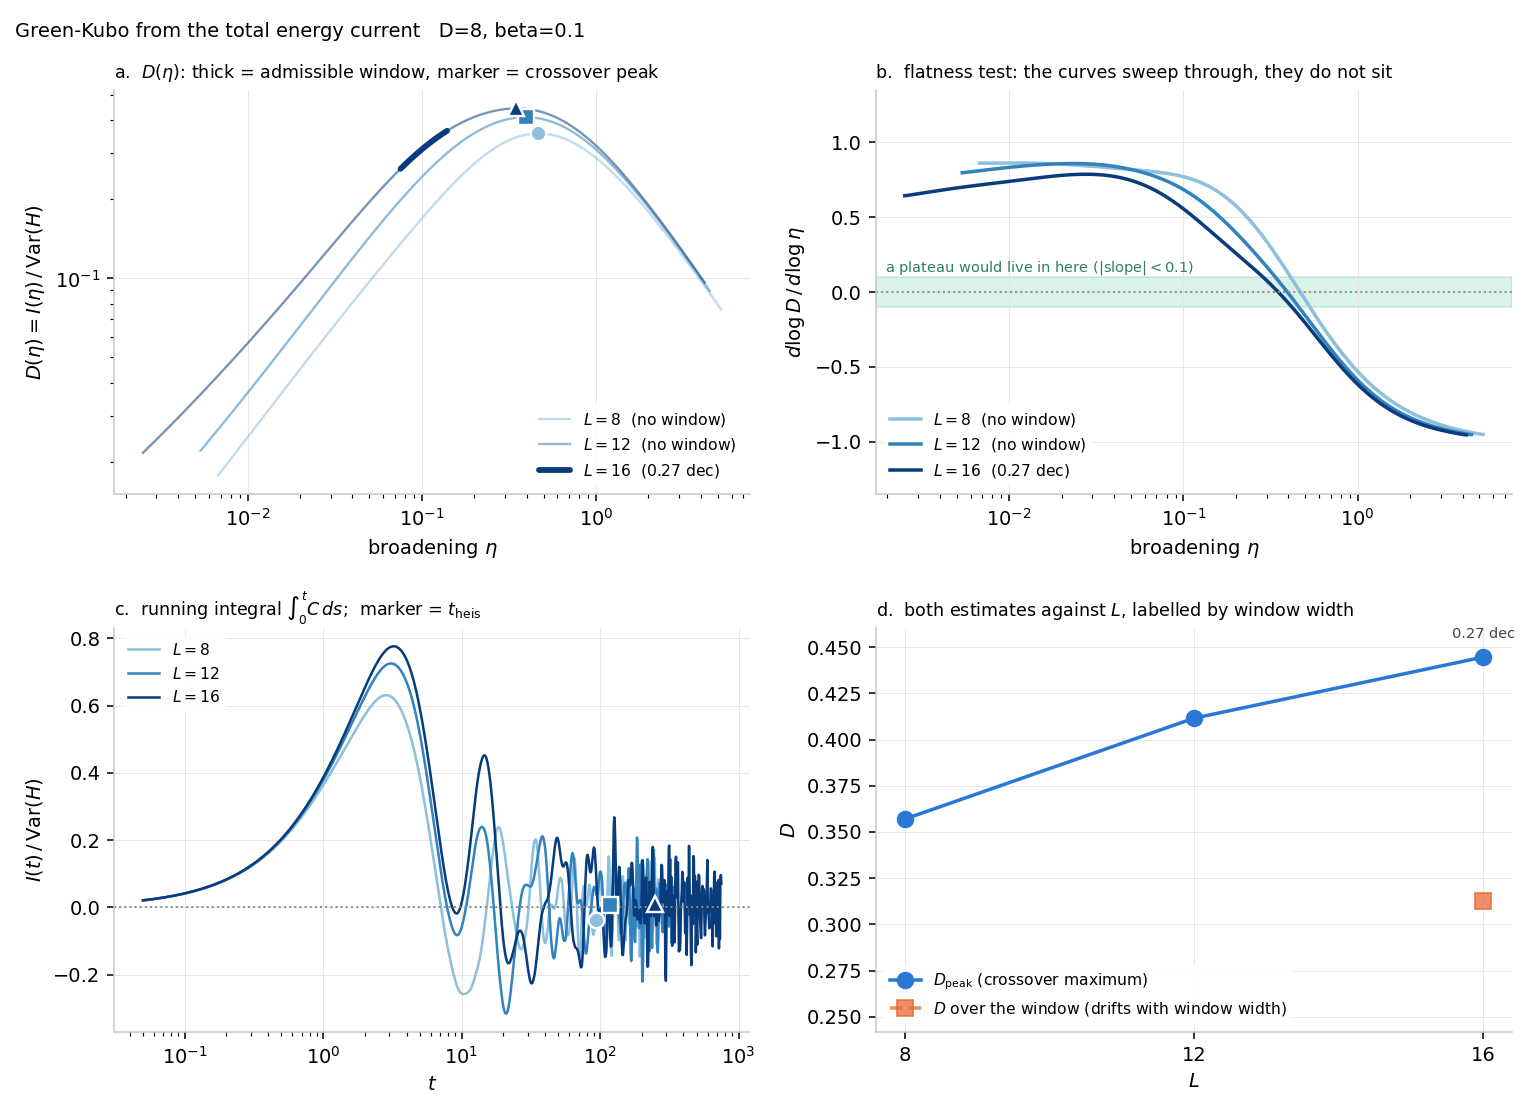
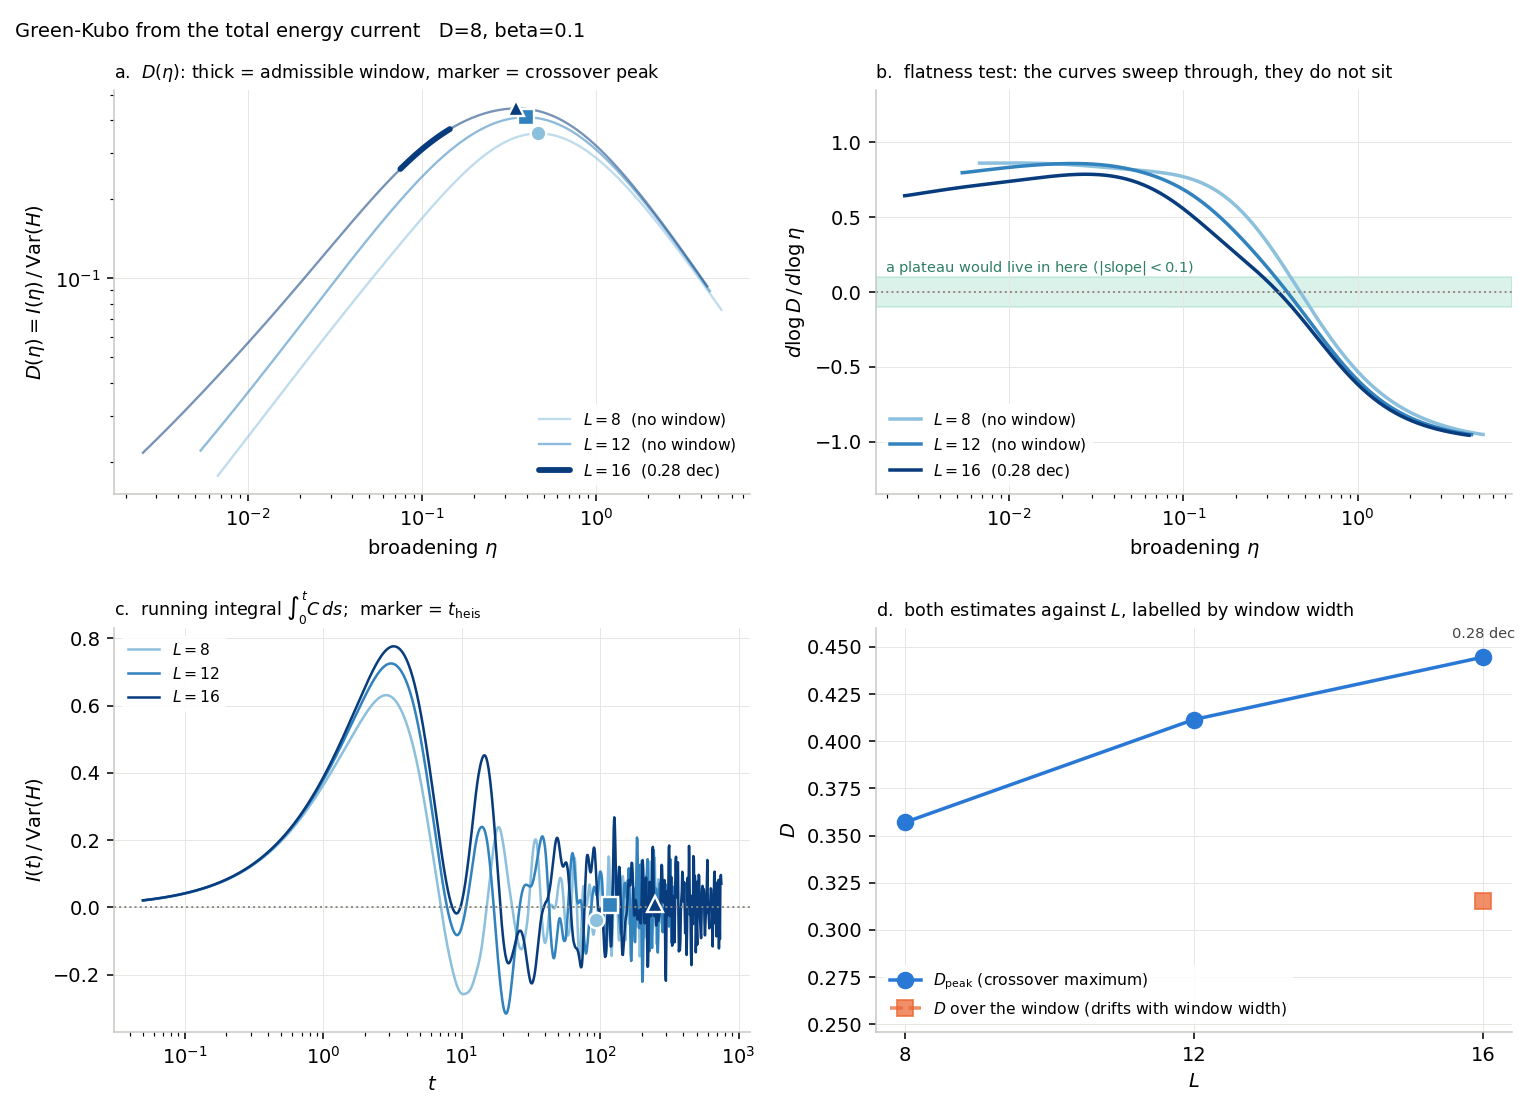
Fix the response time grid, which got coarser as the spectrum got finer
times = linspace(0, 3*t_heis, N_TIMES) at fixed N_TIMES has step
dt = 3*t_heis/N_TIMES, and t_heis = 2pi/spacing grows as the spectrum is
refined. So every improvement to the calculation degraded the time
resolution. At L=24 D=16 this had reached 1.2 samples per Zeno time for
current_total and 0.7 for current_mid, and current_mid returned
tau_1/e = 0.968 -- exactly one dt, the crossing quantised onto the grid.

response_times(scales) now spans 3*t_heis with dt <= t_zeno/20, capped at
400k samples. Free, because the trace is not stored; only n_times and
t_max are, and plots._response_of rebuilds it.

response_function is now chunked over times: the one-shot expression
builds a dense (len(times), len(omega)) matrix, which at L=24 D=16 is
182166 x 15615 = 21 GB to produce 182166 numbers. Verified identical to
the one-shot form to 1e-14 at four chunk sizes.

Every tau in every pickle recomputed from the stored omega and weights --
no diagonalization repeated. The corrected values are flatter, not merely
different: energy_mid reads 1.431 at every D from 6 to 16 where it had
read 1.401/1.408/1.395/1.400/1.498, and current_mid 0.925-0.957 across all
eleven runs where it had spread 0.95-1.33. The apparent drift of tau with
bond dimension was the grid, not the manifold. Tables in README and
WORKFLOW updated; z_mid/x_mid keep their old values and are flagged, since
they were dropped from the scan before this and have no stored weights.
[…]

diff --git a/lyapunov/relaxation/run_relaxation_scan.py b/lyapunov/relaxation/run_relaxation_scan.py
@@ -44,7 +44,26 @@ L_VALUES = [8, 12, 16]
 IMAG_STEPS = 240                        # TDVP steps for the imaginary-time build
 SEED_NOISE = 0.0                        # none needed, see build_uniform_thermofield
 T_MAX_FACTOR = 3.0                      # response evaluated to this * t_heis
-N_TIMES = 6000
+N_TIMES = 6000                          # floor on the sample count
+SAMPLES_PER_ZENO = 20                   # ceiling on dt, see response_times
+MAX_TIMES = 400_000                      # cap, ~3 MB transient per observable
+
+
+def response_times(scales):
+    """
+    Sample grid for C(t): spans T_MAX_FACTOR * t_heis, but with dt small
+    enough to resolve t_zeno.
+
+    A fixed sample count cannot do both. t_heis = 2 pi / spacing grows as
+    the spectrum gets finer, so at fixed N_TIMES the step dt grows with it
+    and the *better* calculation gets the *worse* time resolution -- at
+    L = 24, D = 16 that had reached 1.2 samples per Zeno time, enough to
+    quantise tau_1/e onto the grid. The response is no longer stored
+    (see `run_one`), so a fine grid costs only transient memory.
+    """
+    t_max = T_MAX_FACTOR * scales['t_heis']
+    n_needed = int(np.ceil(t_max / (scales['t_zeno'] / SAMPLES_PER_ZENO))) + 1
+    return np.linspace(0, t_max, min(max(N_TIMES, n_needed), MAX_TIMES))
 
 D_VALUES = [6, 8, 10, 12]               # bond-dimension scan, at L_FIXED
 L_FIXED = 16
@@ -189,7 +208,7 @@ def run_one(L, D=D, beta=BETA, steps=IMAG_STEPS, store_response=False):
         W = resp.pad_with_identity(O, sites)
         weights = resp.spectral_weights(omega, U, v)
         scales = resp.timescales(omega, weights)
-        times = np.linspace(0, T_MAX_FACTOR * scales['t_heis'], N_TIMES)
+        times = response_times(scales)
         C_t = resp.response_function(omega, weights, times)
         # An observable overlapping a conserved quantity relaxes to that
         # overlap, not to zero; both estimates below are taken on the part
@@ -211,7 +230,7 @@ def run_one(L, D=D, beta=BETA, steps=IMAG_STEPS, store_response=False):
             # question in its cleanest form: A_J(0) finite means diffusive,
             # A_h ~ |w|^-1/2 is the same statement seen from the density.
             'spectral': resp.spectral_exponent(omega, weights, scales),
-            'n_times': N_TIMES,
+            'n_times': len(times),
             't_max': float(times[-1]),
             'tau_cross': resp.crossing_time(times, C_t, c_inf=c_inf),
             **({'times': times, 'response': C_t} if store_response else {}),
@@ -281,8 +300,11 @@ def main(l_values=L_VALUES, d_value=None, out_path=None):
               f"L={L} took {clock.time() - t0:.0f}s]", flush=True)
 
     with open(out_path, 'wb') as f:
+        # d_value, not D: this final write overwrites the incremental ones,
+        # and the module default here silently mislabels the config of
+        # every run launched with --D (it did, for l24_d16_results.pkl).
         pickle.dump({'config': {'J': J, 'h': H_FIELD, 'g': G_FIELD,
-                                'beta': BETA, 'D': D,
+                                'beta': BETA, 'D': d_value or D,
                                 'imag_steps': IMAG_STEPS,
                                 'seed_noise': SEED_NOISE},
                      'results': results}, f)

diff --git a/lyapunov/relaxation/response.py b/lyapunov/relaxation/response.py
@@ -324,15 +324,28 @@ def spectral_weights(omega, U, v):
     return np.abs(u) ** 2
 
 
-def response_function(omega, weights, times):
+def response_function(omega, weights, times, chunk=4096):
     """
     C(t) = sum_k w_k cos(omega_k t), normalized to C(0) = 1.
 
     This is the entire time trace, for any t, from one diagonalization --
     no time stepping. Evaluate it well past the expected relaxation time to
     see the recurrences.
+
+    Chunked over `times` because the natural expression builds a dense
+    (len(times), len(omega)) matrix before contracting it away: at L = 24,
+    D = 16 with a grid fine enough to resolve t_zeno that is 182166 x 15615,
+    i.e. 21 GB, to produce 182166 numbers. The chunked loop is the same
+    arithmetic in 0.5 GB.
     """
-    return (np.cos(np.outer(times, omega)) @ weights) / weights.sum()
+    times = np.asarray(times, dtype=float)
+    omega = np.asarray(omega)
+    total = weights.sum()
+    out = np.empty(times.shape[0], dtype=float)
+    for i in range(0, times.shape[0], chunk):
+        block = times[i:i + chunk]
+        out[i:i + chunk] = np.cos(np.outer(block, omega)) @ weights
+    return out / total
 
 
 # --------------------------------------------------------------- timescales

diff --git a/lyapunov/relaxation/README.md b/lyapunov/relaxation/README.md
@@ -392,11 +392,16 @@ Scan: `L = 8, 12, 16`, `D = 8`, `β = 0.1`, seed 0. Figures
 
 | L | τ(current) | τ(energy) | ratio | current `n_eff` | energy `n_eff` |
 |---|---|---|---|---|---|
-| 8 | 0.973 | 1.494 | 1.54 | 177 | 40 |
-| 12 | 0.974 | 1.531 | 1.57 | 324 | 76 |
-| 16 | 0.958 | 1.484 | 1.55 | 383 | 116 |
+| 8 | 0.925 | 1.325 | 1.43 | 177 | 40 |
+| 12 | 0.957 | 1.380 | 1.44 | 324 | 76 |
+| 16 | 0.957 | 1.431 | 1.50 | 383 | 116 |
 
-**1. τ(current) ≈ 0.96 and does not depend on L.** Flat to 2% over
+(Recomputed 2026-09-18 on the adaptive time grid — see "The time grid must
+resolve t_zeno". The previous values, 0.973/0.974/0.958 and
+1.494/1.531/1.484, were read off a grid too coarse to resolve the
+crossing.)
+
+**1. τ(current) ≈ 0.95 and does not depend on L.** Flat to 3% over
 L = 8–16, well converged, and sitting inside its `[t_zeno, t_heis]`
 window. This is the number the exercise was for: it is *microscopic*, as a
 current relaxation time must be. Against a profile-change time `L²/D` of
@@ -652,6 +657,43 @@ unchanged to three digits (`current_mid` 0.320 at R² = 0.933,
 `current_total` 0.681 at R² = 0.857 at L = 16). Their taus, ~0.3–0.7
 against a limit `1/spacing` of ~46, are resolvable by two orders of
 magnitude, which is why they were never the problem.
+
+### The time grid must resolve t_zeno (2026-09-18)
+
+`times = linspace(0, 3 * t_heis, N_TIMES)` at fixed `N_TIMES` has a step
+`dt = 3 t_heis / N_TIMES`, and `t_heis = 2 pi / spacing` **grows** as the
+spectrum gets finer. So every improvement to the calculation made the time
+resolution worse — the failure mode arrives exactly when the physics gets
+better. At L = 24, D = 16 it had reached 1.2 samples per Zeno time for the
+total current and 0.7 for the local one, and `current_mid` returned
+`tau_1/e = 0.968`, which was precisely one `dt`: the crossing had been
+quantised onto the grid.
+
+`response_times(scales)` now spans `3 t_heis` with `dt <= t_zeno / 20`,
+capped at 400k samples. This costs nothing to store, because the trace is
+not stored (see `run_one`'s `store_response`) — only `n_times` and `t_max`
+are, and `plots._response_of` rebuilds it. `response_function` is chunked
+over `times` for the same reason: the natural one-shot expression builds a
+dense `(len(times), len(omega))` matrix, which at L = 24, D = 16 is
+182166 x 15615, i.e. **21 GB to produce 182166 numbers**.
+
+**What it changed.** Every `tau` in this file was recomputed from the
+stored `omega` and `weights` — no diagonalization was repeated. The
+corrected values are *flatter*, not just different:
+
+| | before (coarse grid) | after |
+|---|---|---|
+| `energy_mid`, D = 6…16 at L = 16 | 1.401, 1.408, 1.395, 1.400, 1.498 | **1.431 at every D** |
+| `current_mid`, D = 6…16 at L = 16 | 0.997 … 1.328 | **0.925–0.957** |
+| `current_mid`, all 11 runs | 0.95–1.33 | **0.925–0.957** |
+
+The apparent drift of `tau` with bond dimension — which had looked like the
+manifold slowly resolving a rate — **was the time grid**. Once sampled
+properly, `tau_1/e` is flat in D to within 3% and creeps up only with L
+(`energy_mid`: 1.325, 1.380, 1.431 at L = 8, 12, 16). The exponential fits
+remain unreliable (`R^2 < 0.9` in 8 of 11 runs for `energy_mid`), which is
+the separate and still-standing conclusion that there is no exponential
+regime here.
 
 ### The spectral-density limit: why it is the right object
 
@@ -1054,7 +1096,9 @@ Not yet written: the wavevector-resolved energy density needed to turn
    running τ(t) never plateaus for either observable.
 
    *Partly settled since.* τ_1/e for `energy_mid` is flat in bond
-   dimension (1.401 / 1.408 / 1.395 / 1.400 at D = 6/8/10/12). Which of L
+   dimension — 1.431 at every D from 6 to 16, once the time grid resolves
+   `t_zeno` (the old 1.401/1.408/1.395/1.400/1.498 spread was the grid, not
+   the manifold; see "The time grid must resolve t_zeno"). Which of L
    and D buys resolution is answered in "Cost and convergence": neither —
    they cost the same per unit of level spacing, and D saturates at 16.
 

diff --git a/lyapunov/WORKFLOW.md b/lyapunov/WORKFLOW.md
@@ -87,10 +87,14 @@ exponential fits are unreliable here — see below):
 
 | observable | L=8 | L=12 | L=16 |
 |---|---|---|---|
-| `z_mid` | 2.050 | 2.131 | 2.189 |
-| `x_mid` | 0.479 | 0.501 | 0.480 |
-| `energy_mid` | 1.494 | 1.531 | 1.484 |
-| `current_mid` | 0.973 | 0.974 | 0.958 |
+| `z_mid`* | 2.050 | 2.131 | 2.189 |
+| `x_mid`* | 0.479 | 0.501 | 0.480 |
+| `energy_mid` | 1.325 | 1.380 | 1.431 |
+| `current_mid` | 0.925 | 0.957 | 0.957 |
+
+\* `z_mid`/`x_mid` are the original values on the old coarse time grid —
+they were dropped from the scan before the grid was fixed, so there are no
+weights stored to recompute them from. The other two rows are recomputed.
 
 Tangent dimensions 959 / 1727 / 2495; everything agrees to ~2% across
 the three.
@@ -101,7 +105,7 @@ the rows above are a record rather than something the current code
 reproduces. `response.single_copy_onesite` still builds them; see the
 commented lines in `run_relaxation_scan.run_one`.
 
-- **τ(current) ≈ 0.96, independent of L** — the number the current operator
+- **τ(current) ≈ 0.95, independent of L** — the number the current operator
   was added for. Microscopic, as a current relaxation time must be, and two
   to three orders below the `L²/D` profile time. **The wait before
   transport can look diffusive is not the obstacle.**
@@ -110,7 +114,7 @@ commented lines in `run_relaxation_scan.run_one`.
   mode carrying ~9% on its own), current 0.019 (0.24x chance, bimodal with
   peaks at ω ≈ ±1). Conserved density has the low-frequency pole, its
   current does not — the precondition for a finite Green–Kubo `D`.
-- **τ(energy)/τ(current) ≈ 1.55 is NOT a hydrodynamic separation.** Both are
+- **τ(energy)/τ(current) ≈ 1.45 is NOT a hydrodynamic separation.** Both are
   *local* dephasing times at the fixed point; both are flat in L, whereas a
   hydrodynamic time grows like L². Do not read that ratio as gating
   diffusion.
